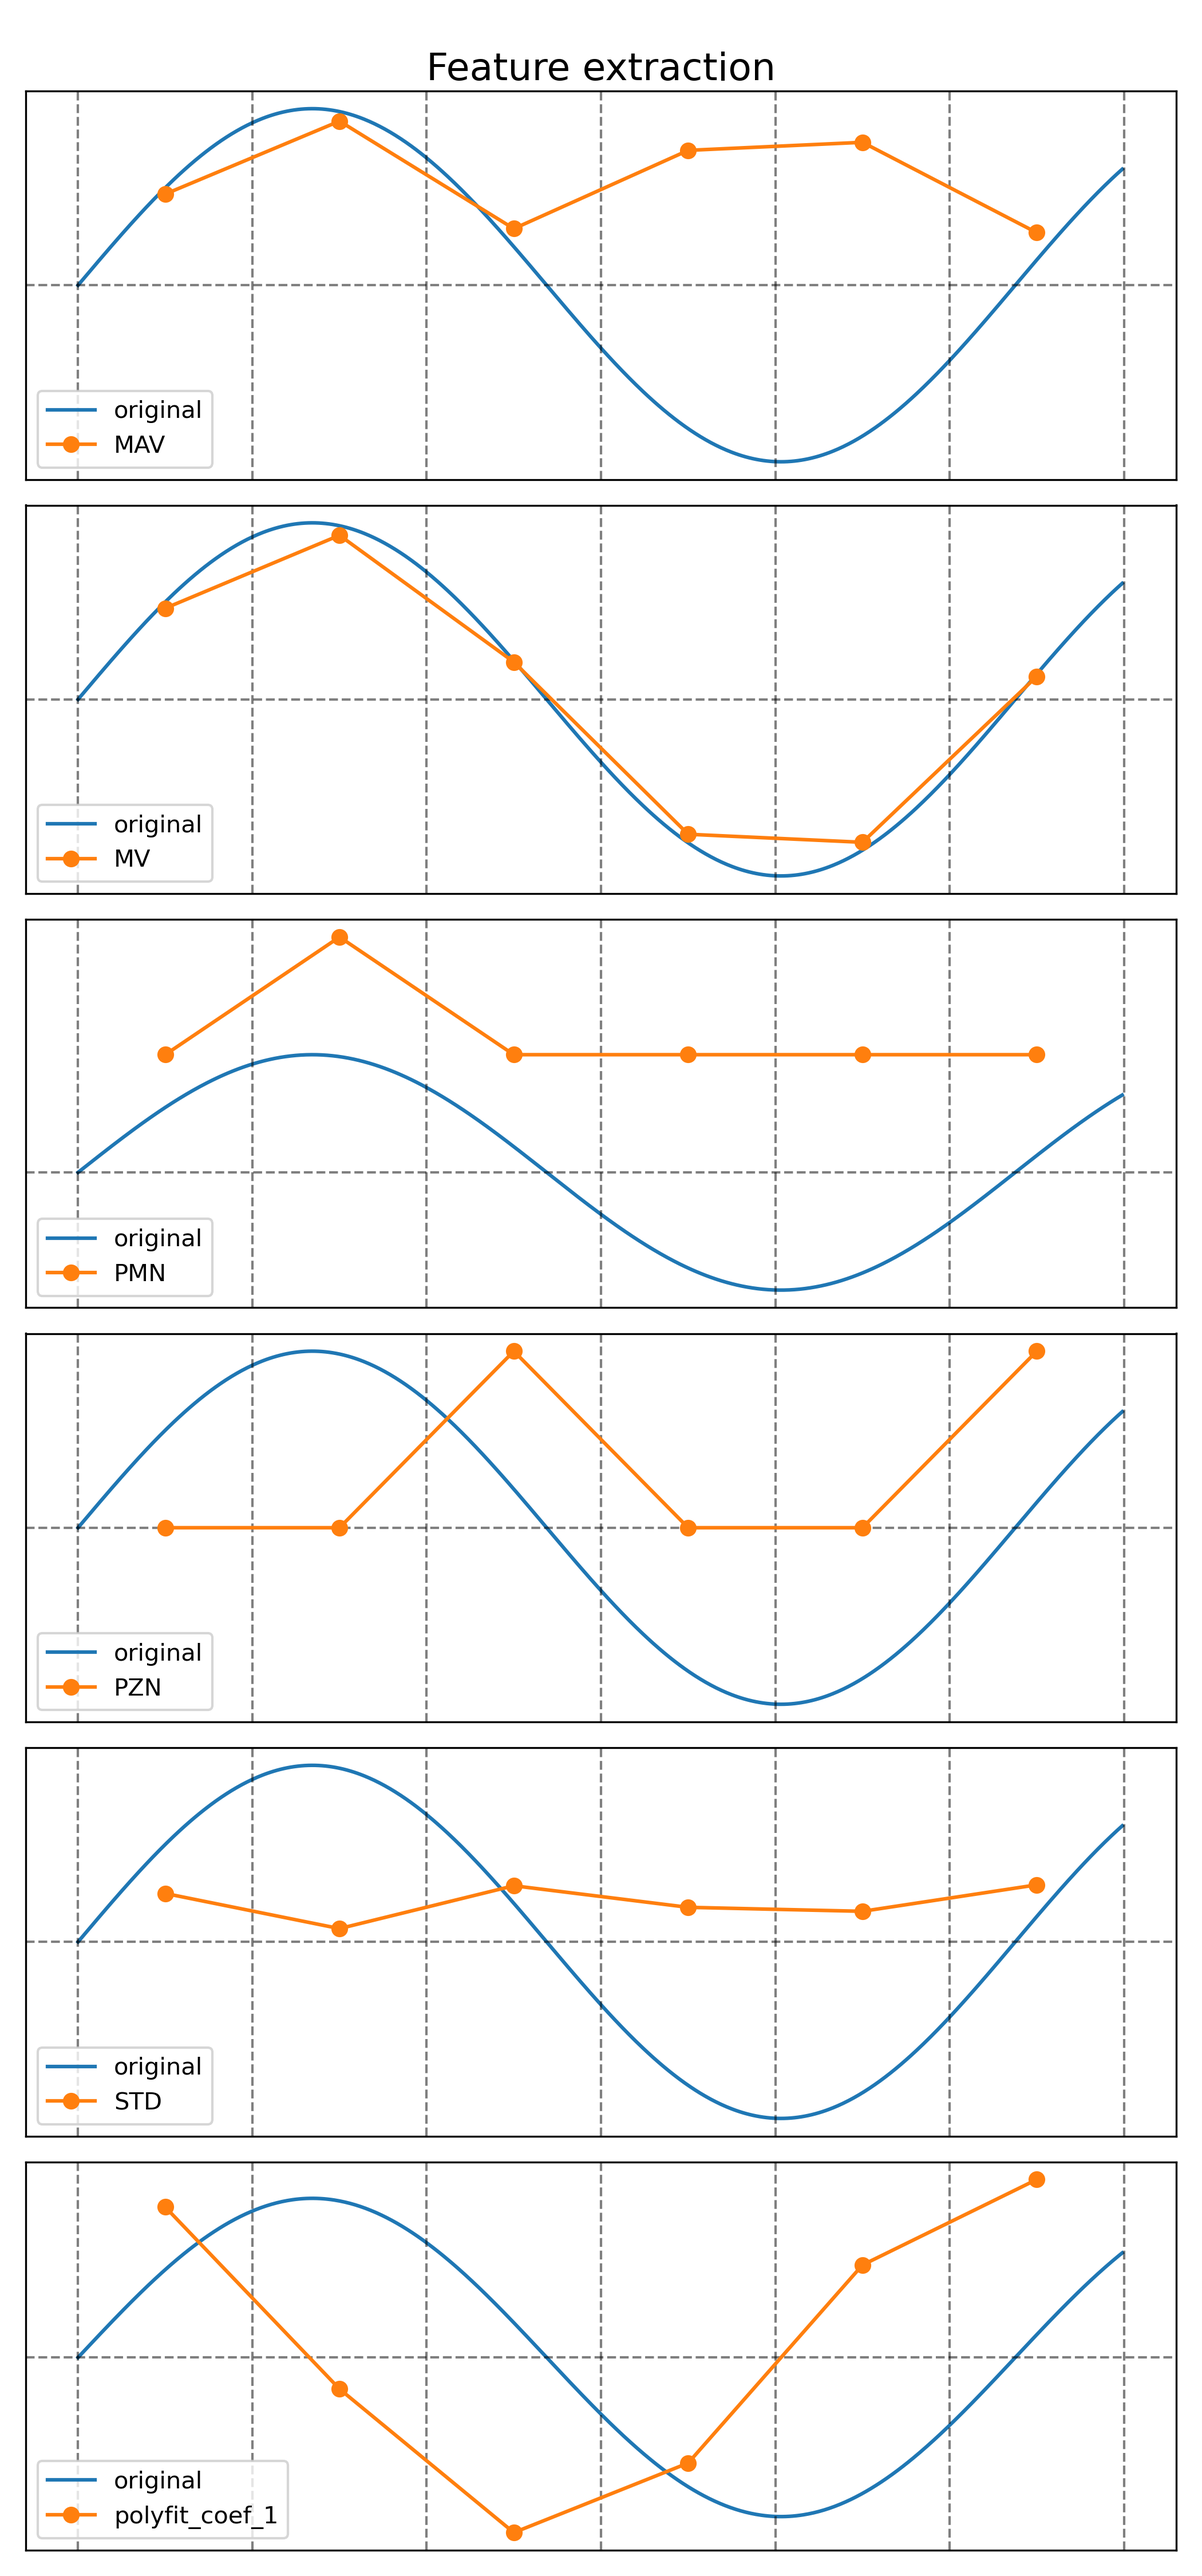
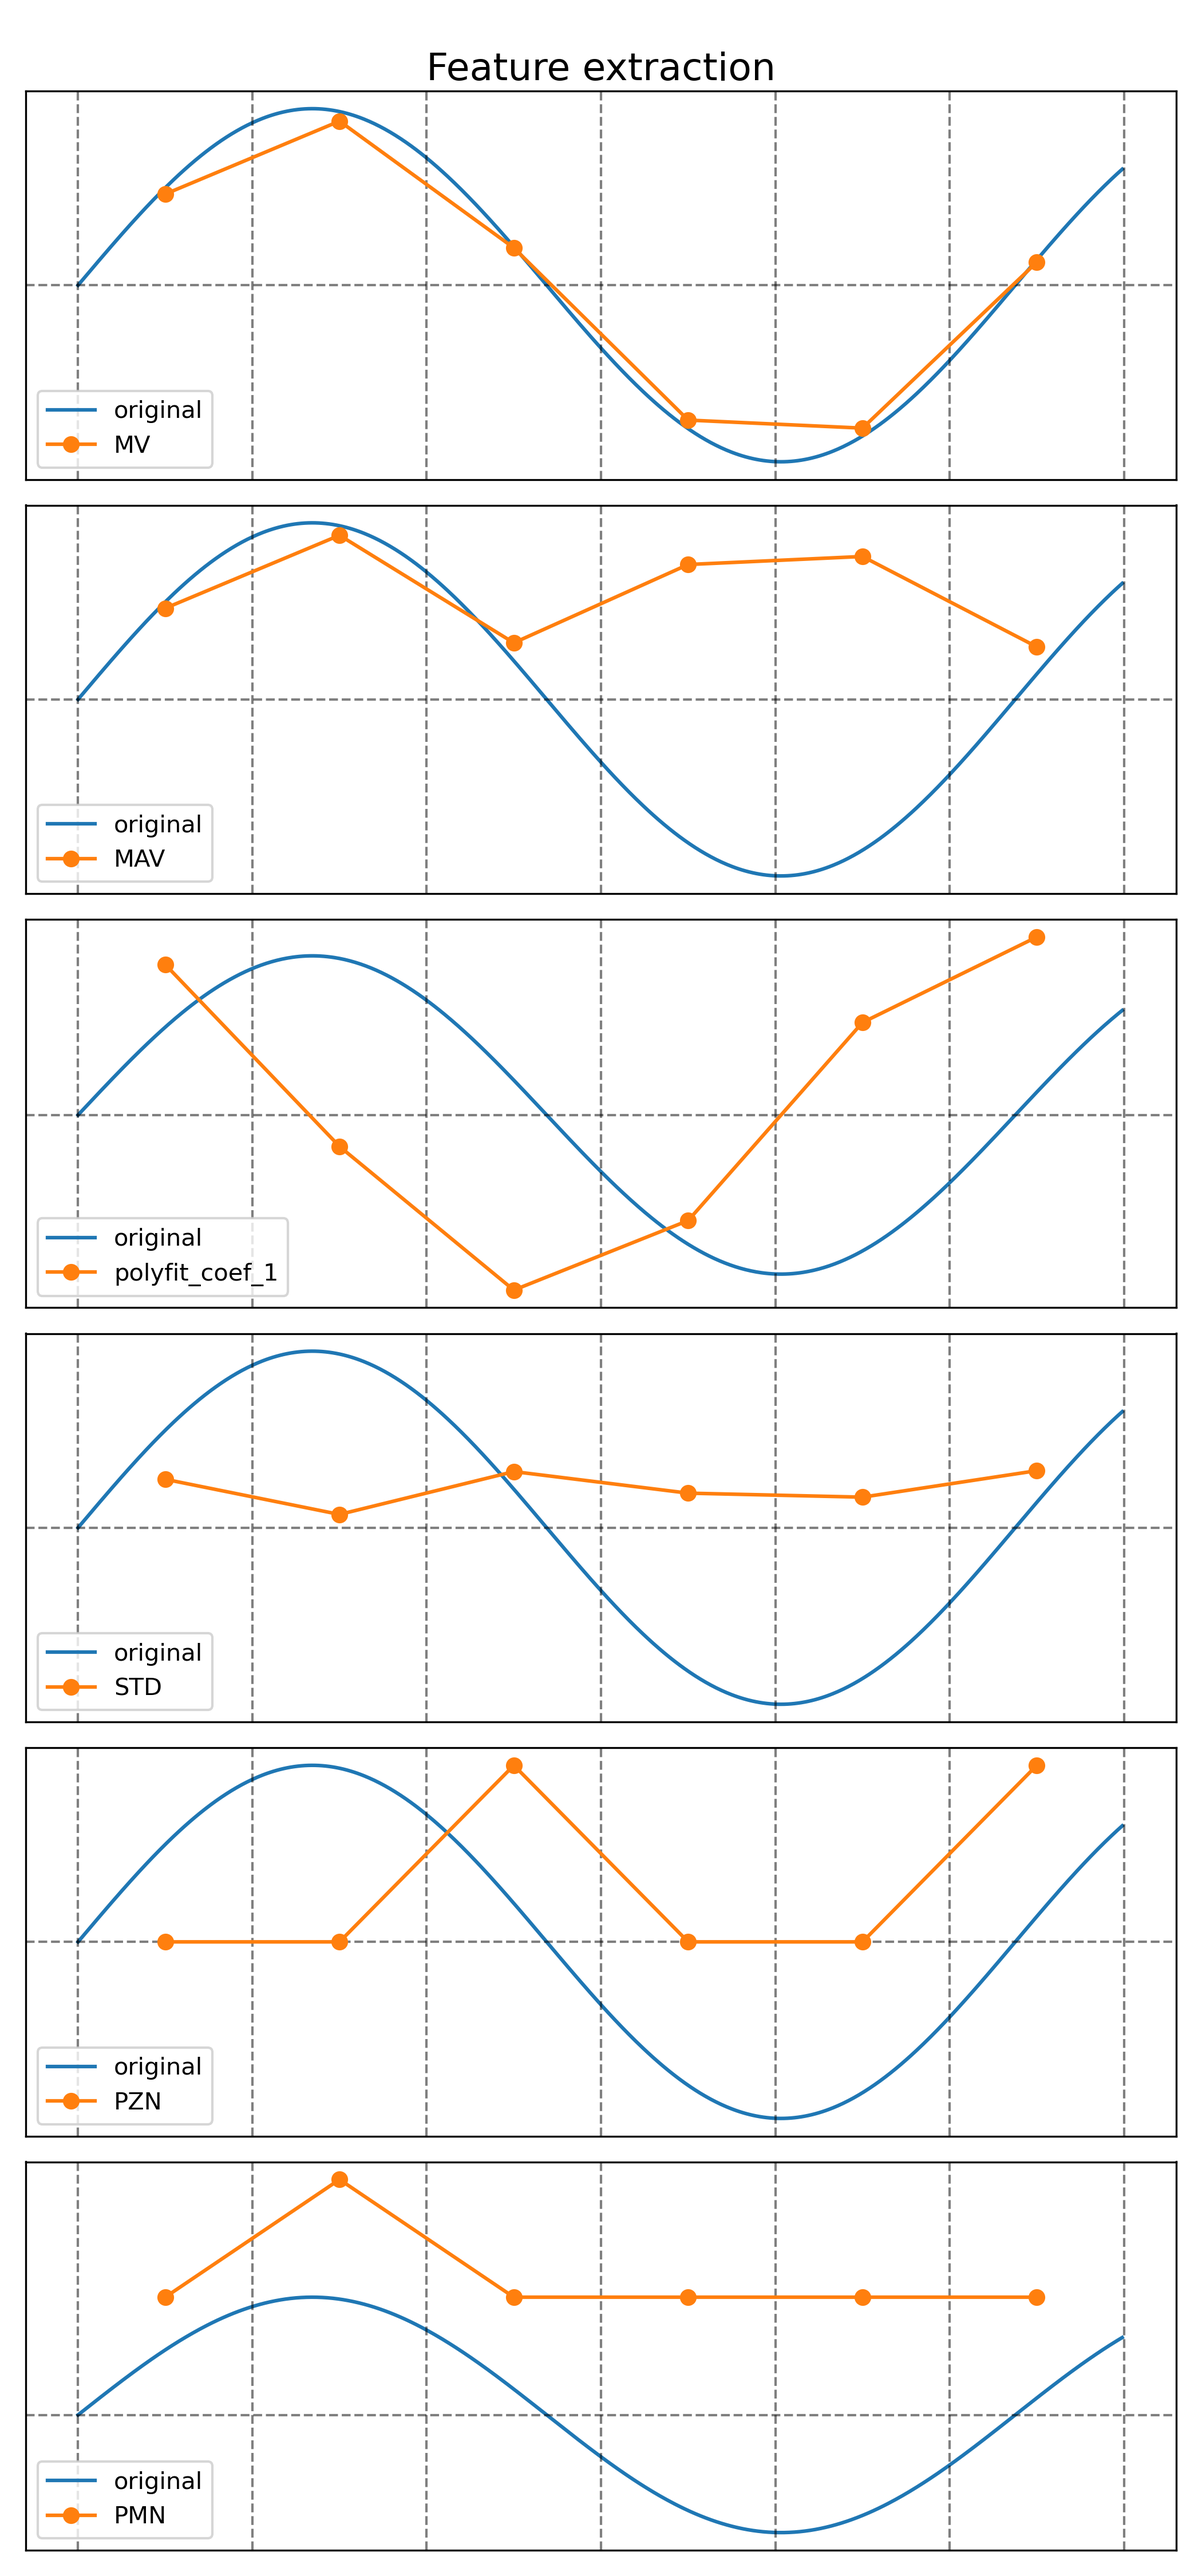
task names shortening

diff --git a/fastfnirs/utils.py b/fastfnirs/utils.py
@@ -1,4 +1,5 @@
 from pathlib import Path
+import numpy as np
 import pandas as pd
 import re
 import logging
@@ -73,21 +74,6 @@ def get_ch_type(root_path):
                         f"found ch_type {ch_type} in {subject} {task} but expected {excepted_ch_type}"
                     )
     return bids_ch_type_to_mne(excepted_ch_type)
-
-
-def event_mapping_to_task(event_mapping):
-
-    # combine class event names, e.g. {'a': 0, 'b': 0, 'c': 1} --> {'a & b': 0, 'c': 1}
-    event_mapping_ = {}
-    for k, v in event_mapping.items():
-        if v not in event_mapping_:
-            event_mapping_[v] = k
-        else:
-            event_mapping_[v] += f" & {k}"
-
-    event_mapping_ = {v: k for k, v in sorted(event_mapping_.items())}
-
-    return " V ".join([f'{k.split("/")[-1]}' for k, v in event_mapping_.items()])
 
 
 def divide_to_groups(l, n):
@@ -184,3 +170,79 @@ def get_cv_from_str(cv_str, n=None, y=None, seed=None, **kwargs):
             n_splits=np.min(label_counts), n_repeats=1, random_state=seed, **kwargs
         )
     return cv
+
+
+def find_lcs(strings):
+    """Find the longest common substring of a list of strings."""
+    # Step 1: Find the shortest string in the list.
+    shortest = min(strings, key=len)
+    
+    # Step 2: Generate all substrings of the shortest string, from longest to shortest.
+    for length in range(len(shortest), 0, -1):
+        for start in range(len(shortest) - length + 1):
+            substr = shortest[start:start + length]
+            
+            # Step 3: Check if this substring is common to all strings.
+            if all(substr in string for string in strings):
+                return substr
+    return ""  # Return an empty string if there is no common substring.
+
+
+def remove_common_part(event_mapping):
+    """remove common part from event names"""
+    substr_all = find_lcs(list(event_mapping.keys()))
+    return {k.replace(substr_all, ""): v for k, v in event_mapping.items()}
+
+
+def combine_event_map_by_substr(event_mapping):
+    """
+    Combines event names by finding the longest common substring.
+
+    e.g. {'a1': 0, 'a2': 0, 'b1': 1, 'b2': 1} --> {'a': 0, 'b': 1}
+    """
+    pretty = {}
+    event_mapping_ = event_mapping.copy()
+    unique_vals = np.unique(list(event_mapping.values()))
+
+    for u in unique_vals:
+        val_keys = [k for k, v in event_mapping_.items() if v == u]
+        common_part = find_lcs(val_keys)
+        if common_part in pretty:
+            return combine_event_map_by_substr(remove_common_part(event_mapping))
+        if len(common_part) == 0:
+            raise ValueError(f"Could not find common part for {val_keys}")
+        pretty[common_part] = u
+    return pretty
+
+
+def combine_event_map_by_concat(event_mapping):
+    """
+    Concatenates event names by combining them with a '&'.
+    """
+    event_mapping_ = {}
+    for k, v in event_mapping.items():
+        if v not in event_mapping_:
+            event_mapping_[v] = k
+        else:
+            event_mapping_[v] += f" & {k}"
+    return {v: k for k, v in sorted(event_mapping_.items())}
+
+
+def combine_event_map(event_mapping):
+    """
+    Combines event names by finding the longest common substring.
+
+    e.g. {'a1': 0, 'a2': 0, 'b1': 1, 'b2': 1} --> {'a': 0, 'b': 1}
+
+    If can't find common part, concatenates event names with a '&'.
+    """
+    try:
+        return combine_event_map_by_substr(event_mapping)
+    except ValueError:
+        return combine_event_map_by_concat(event_mapping)
+
+
+def event_mapping_to_task(event_mapping, combine=True):
+    if combine:
+        event_mapping = combine_event_map(event_mapping)
+    return " V ".join([f'{k.split("/")[-1]}' for k, v in event_mapping.items()])

diff --git a/fastfnirs/classification.py b/fastfnirs/classification.py
@@ -15,6 +15,8 @@ from sklearn.model_selection import (
 )
 from sklearn.metrics import confusion_matrix, classification_report
 from fastfnirs.data import BrainDataset
+from fastfnirs.utils import combine_event_map
+
 
 logger = logging.getLogger(__name__)
 
@@ -299,10 +301,10 @@ def epoch_classification(
     bd.filter_by_class_count()
     bd.apply_ch_selection(ch_selection=ch_selection)
     Xr, y = bd.X, bd.y
+    print(len(Xr))
 
     X = extract_features_from_raw(Xr, features=features, n_windows=n_windows)
     X = concatenate_features(X)
-
     Xc = np.concatenate([*X.values()])
     yc = np.concatenate([*y.values()])
     subject_ids = np.concatenate(
@@ -334,6 +336,8 @@ def epoch_classification(
             model, Xc, yc, n_jobs=-1, cv=cross_cv.split(Xc, yc, subject_ids)
         )
 
+    combined_event_map = combine_event_map(event_mapping)
+
     if print_report:
         print(
             f"X.shape: {Xc.shape}, y label counts: {np.unique(yc, return_counts=True)}"
@@ -341,10 +345,10 @@ def epoch_classification(
         print(f"Model: {model}")
         print()
         print(f"Individual subject classification:")
-        print_results(y, ind_preds, event2name=reverse_dict(event_mapping))
+        print_results(y, ind_preds, event2name=reverse_dict(combined_event_map))
         if predict_cross:
             print(f"Cross-subject classification:")
-            print_results(y, cross_preds, event2name=reverse_dict(event_mapping))
+            print_results(y, cross_preds, event2name=reverse_dict(combined_event_map))
 
     return {
         "ind_preds": ind_preds,

diff --git a/scripts/feature_extraction.py b/scripts/feature_extraction.py
@@ -10,6 +10,7 @@ ex_x_2 = np.cos(np.linspace(0, 7, T))
 ex_x = np.vstack([ex_x_1, ex_x_2])[None, :]
 ex_x = np.tile(ex_x, (4, 1, 1))
 ex_x = ex_x * 1
+
 print(f'{ex_x.shape=}')
 ex_X = {
     'sub-01': ex_x,
@@ -37,12 +38,24 @@ px = []
 for wi in range(n_windows):
     px.append(wi*wl + wl//2)
 #%%
+
+
+feature_order = [
+    'MV',
+    'MAV',
+    'polyfit_coef_1',
+    'STD',
+    'PZN',
+    'PMN',
+]
+# eliminate channels that are not in plot_chs
+pf_ch = {k:v for k,v in pf.items() if k[:5] in plot_chs}
+# eliminate features that are not in feature_order
+pf_ch = {k:v for k,v in pf_ch.items() if k.split()[-1] in feature_order}
+# sort by feature_order
+pf_ch = dict(sorted(pf_ch.items(), key=lambda x: feature_order.index(x[0].split()[-1])))
+#%%
 plt.figure(figsize=(7, 15))
-pf_ch = {
-    k:v
-    for k,v in pf.items()
-    if k[:5] in plot_chs
-}
 for pi, (fn, f) in enumerate(pf_ch.items()):
     plt.subplot(6, 1, pi+1)
     for ci, ch in enumerate(plot_chs):
@@ -69,3 +82,4 @@ plt.suptitle('Feature extraction', fontsize=16)
 plt.tight_layout()
 plt.savefig('fig/feature_extraction.png', dpi=300)
 plt.show()
+# %%

diff --git a/fastfnirs/data.py b/fastfnirs/data.py
@@ -288,6 +288,7 @@ class BrainDataset:
             ch_mask = np.array([ch_selection in ch for ch in self.ch_names])
             chs_filtered = np.array(self.ch_names)[ch_mask]
             for subject in self.X.keys():
+                print(f"Filtering {subject} from {self.X[subject].shape} to {self.X[subject][:, ch_mask, :].shape}")
                 self.X[subject] = self.X[subject][:, ch_mask, :]
             self.ch_names = chs_filtered
         else:
